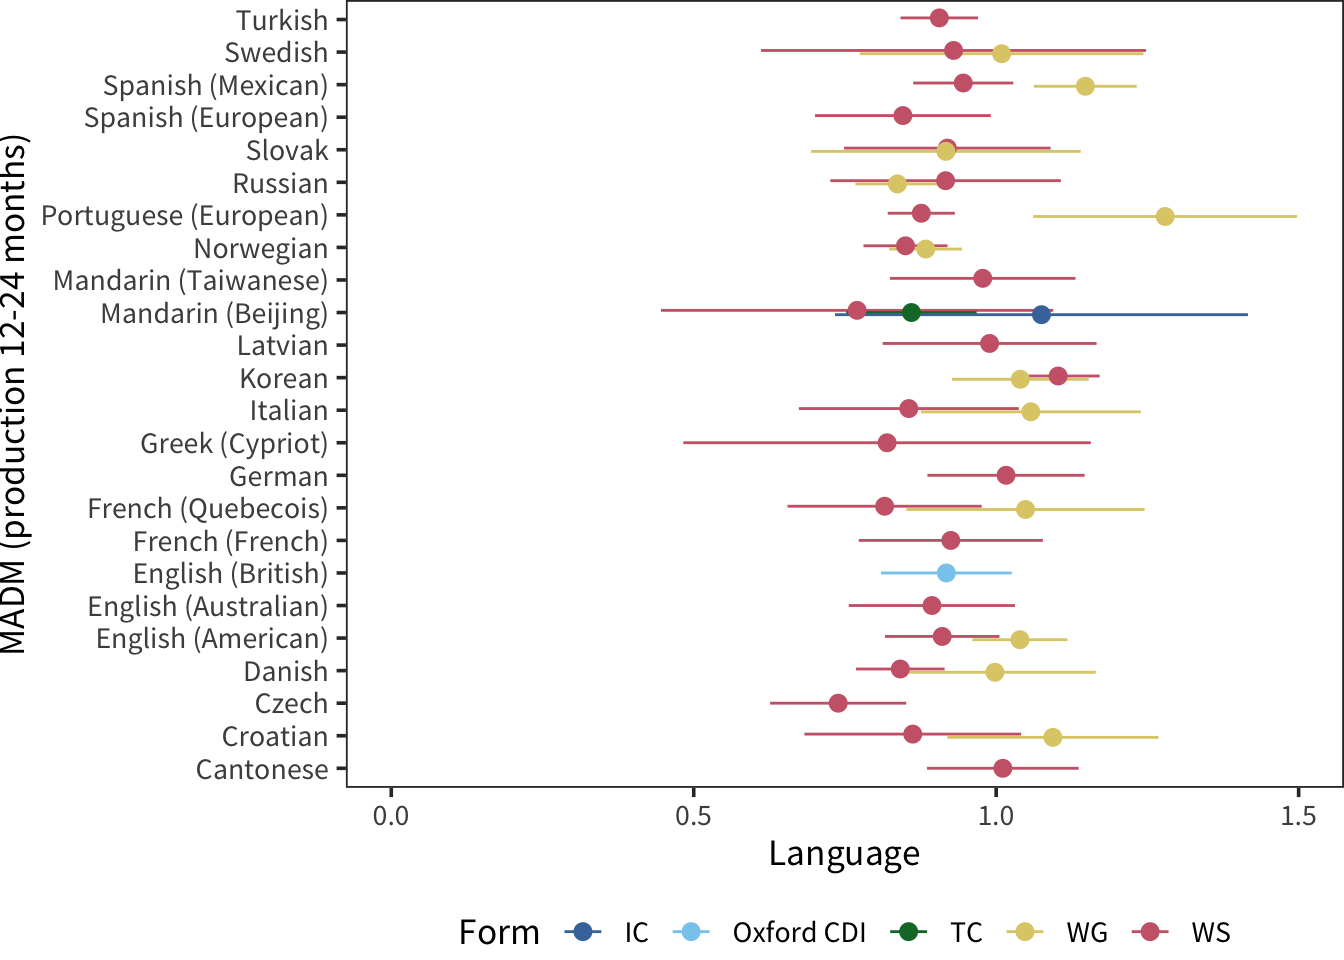
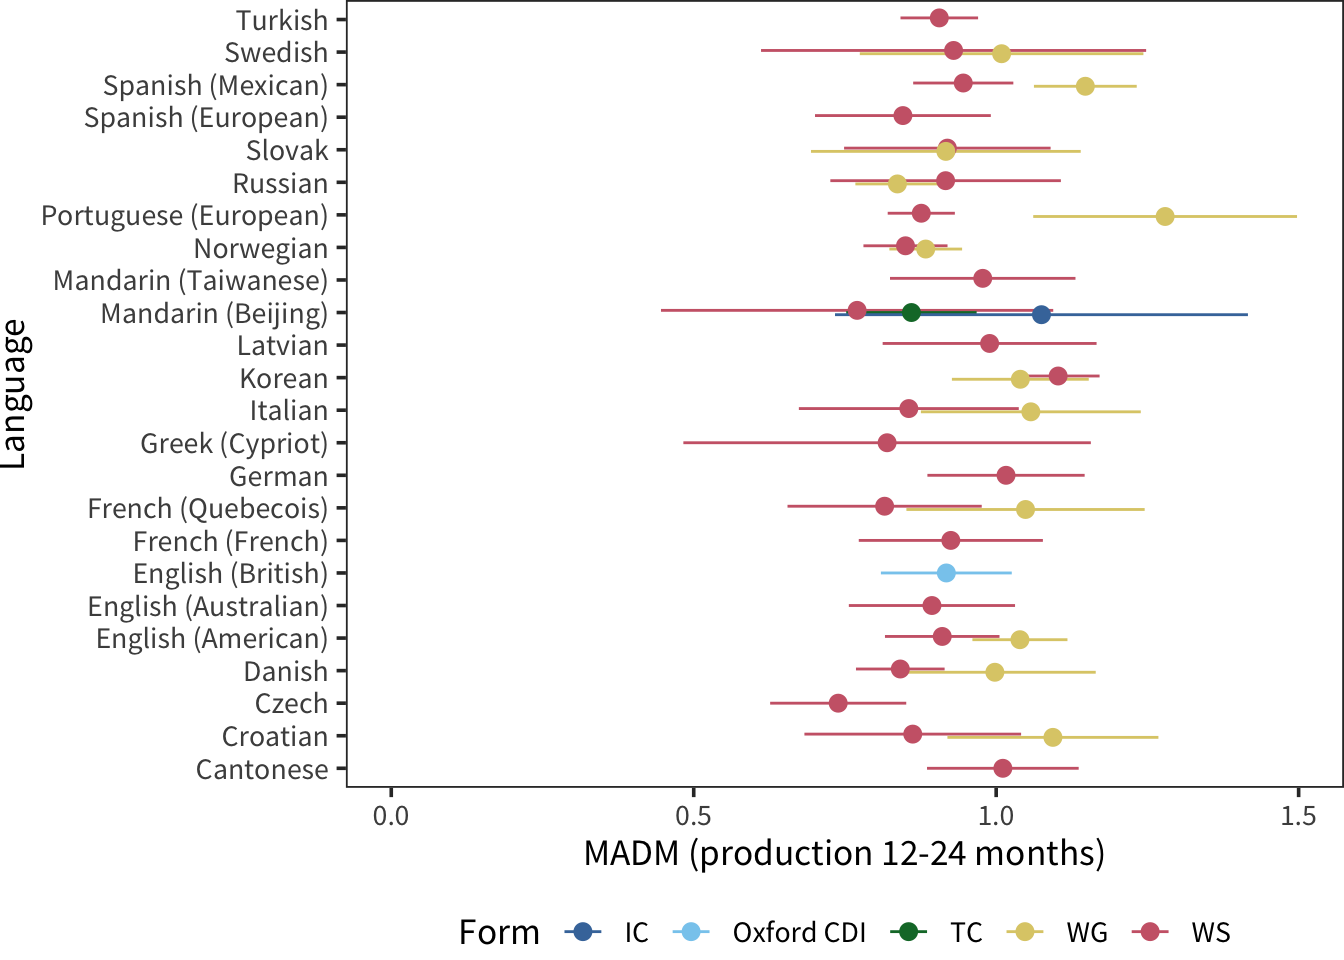
fix #58

Changed region(s): [[0.0, 0.125, 0.0312, 0.6875], [0.4375, 0.875, 0.8125, 0.9062]]

diff --git a/docs/vocabulary.html b/docs/vocabulary.html
@@ -168,12 +168,15 @@
 <li class="chapter" data-level="7.1.3" data-path="gesture.html"><a href="gesture.html#intercorrelation-among-gestures"><i class="fa fa-check"></i><b>7.1.3</b> Intercorrelation among gestures</a></li>
 </ul></li>
 <li class="chapter" data-level="7.2" data-path="gesture.html"><a href="gesture.html#the-relationship-between-language-and-gesture"><i class="fa fa-check"></i><b>7.2</b> The relationship between language and gesture</a></li>
+<li class="chapter" data-level="7.3" data-path="gesture.html"><a href="gesture.html#conclusions-2"><i class="fa fa-check"></i><b>7.3</b> Conclusions</a></li>
+<li class="chapter" data-level="7.4" data-path="gesture.html"><a href="gesture.html#gesture-and-demographic-variables"><i class="fa fa-check"></i><b>7.4</b> Gesture and demographic variables</a></li>
 </ul></li>
 <li class="chapter" data-level="8" data-path="items-consistency.html"><a href="items-consistency.html"><i class="fa fa-check"></i><b>8</b> Consistency in Early Vocabulary</a><ul>
 <li class="chapter" data-level="8.1" data-path="items-consistency.html"><a href="items-consistency.html#the-first-10-words"><i class="fa fa-check"></i><b>8.1</b> The first 10 words</a></li>
 <li class="chapter" data-level="8.2" data-path="items-consistency.html"><a href="items-consistency.html#global-cross-linguistic-similarity"><i class="fa fa-check"></i><b>8.2</b> Global cross-linguistic similarity</a></li>
 <li class="chapter" data-level="8.3" data-path="items-consistency.html"><a href="items-consistency.html#acquisition-similarity-and-linguistic-similarity"><i class="fa fa-check"></i><b>8.3</b> Acquisition similarity and linguistic similarity</a></li>
 <li class="chapter" data-level="8.4" data-path="items-consistency.html"><a href="items-consistency.html#consistency-across-development"><i class="fa fa-check"></i><b>8.4</b> Consistency across development</a></li>
+<li class="chapter" data-level="8.5" data-path="items-consistency.html"><a href="items-consistency.html#conclusions-3"><i class="fa fa-check"></i><b>8.5</b> Conclusions</a></li>
 </ul></li>
 <li class="chapter" data-level="9" data-path="items-demographics.html"><a href="items-demographics.html"><i class="fa fa-check"></i><b>9</b> Demographic Variation in Individual Words</a><ul>
 <li class="chapter" data-level="9.1" data-path="items-demographics.html"><a href="items-demographics.html#methods-1"><i class="fa fa-check"></i><b>9.1</b> Methods</a><ul>
@@ -181,11 +184,12 @@
 <li class="chapter" data-level="9.1.2" data-path="items-demographics.html"><a href="items-demographics.html#models"><i class="fa fa-check"></i><b>9.1.2</b> Models</a></li>
 </ul></li>
 <li class="chapter" data-level="9.2" data-path="items-demographics.html"><a href="items-demographics.html#results"><i class="fa fa-check"></i><b>9.2</b> Results</a><ul>
-<li class="chapter" data-level="9.2.1" data-path="items-demographics.html"><a href="items-demographics.html#sex-1"><i class="fa fa-check"></i><b>9.2.1</b> Sex</a></li>
-<li class="chapter" data-level="9.2.2" data-path="items-demographics.html"><a href="items-demographics.html#birth-order-1"><i class="fa fa-check"></i><b>9.2.2</b> Birth order</a></li>
-<li class="chapter" data-level="9.2.3" data-path="items-demographics.html"><a href="items-demographics.html#maternal-education"><i class="fa fa-check"></i><b>9.2.3</b> Maternal education</a></li>
+<li class="chapter" data-level="9.2.1" data-path="items-demographics.html"><a href="items-demographics.html#item-specific-effects"><i class="fa fa-check"></i><b>9.2.1</b> Item-specific effects –&gt;</a></li>
+<li class="chapter" data-level="9.2.2" data-path="items-demographics.html"><a href="items-demographics.html#sex-1"><i class="fa fa-check"></i><b>9.2.2</b> Sex</a></li>
+<li class="chapter" data-level="9.2.3" data-path="items-demographics.html"><a href="items-demographics.html#birth-order-1"><i class="fa fa-check"></i><b>9.2.3</b> Birth order</a></li>
+<li class="chapter" data-level="9.2.4" data-path="items-demographics.html"><a href="items-demographics.html#maternal-education"><i class="fa fa-check"></i><b>9.2.4</b> Maternal education</a></li>
 </ul></li>
-<li class="chapter" data-level="9.3" data-path="items-demographics.html"><a href="items-demographics.html#conclusions-2"><i class="fa fa-check"></i><b>9.3</b> Conclusions</a></li>
+<li class="chapter" data-level="9.3" data-path="items-demographics.html"><a href="items-demographics.html#conclusions-4"><i class="fa fa-check"></i><b>9.3</b> Conclusions</a></li>
 </ul></li>
 <li class="chapter" data-level="10" data-path="items-prediction.html"><a href="items-prediction.html"><i class="fa fa-check"></i><b>10</b> Predictive Models of Individual Words</a><ul>
 <li class="chapter" data-level="10.1" data-path="items-prediction.html"><a href="items-prediction.html#methods-2"><i class="fa fa-check"></i><b>10.1</b> Methods</a><ul>
@@ -254,7 +258,7 @@
 <li class="chapter" data-level="16.3.3" data-path="conclusion-scale.html"><a href="conclusion-scale.html#generalizations-appear-gradually"><i class="fa fa-check"></i><b>16.3.3</b> Generalizations appear gradually</a></li>
 </ul></li>
 <li class="chapter" data-level="16.4" data-path="conclusion-scale.html"><a href="conclusion-scale.html#methodological-morals"><i class="fa fa-check"></i><b>16.4</b> Methodological morals</a></li>
-<li class="chapter" data-level="16.5" data-path="conclusion-scale.html"><a href="conclusion-scale.html#conclusions-3"><i class="fa fa-check"></i><b>16.5</b> Conclusions</a></li>
+<li class="chapter" data-level="16.5" data-path="conclusion-scale.html"><a href="conclusion-scale.html#conclusions-5"><i class="fa fa-check"></i><b>16.5</b> Conclusions</a></li>
 </ul></li>
 <li class="appendix"><span><b>Appendices</b></span></li>
 <li class="chapter" data-level="A" data-path="appendix-data.html"><a href="appendix-data.html"><i class="fa fa-check"></i><b>A</b> Individual Datasets</a></li>
@@ -297,33 +301,33 @@
 Figure 5.1: Schematic true vocabulary growth and vocbaulary growth as measured by the CDI.
 </p>
 </div>
-<p>This schematic reveals a number of patterns that are explored in this and subsequent chapters. The CDI necessarily captures a small fraction of any individual’s true vocabulary, but even within the measured range there are a number of specific questions that can be addressed by different analyses. The question of the exact slope of children’s growth, especially in the period immediately after the emergence of language, is treated in Chapter <a href="style.html#style">14</a> — this question is sometimes posed as whether children undergo a vocabulary “spurt” <span class="citation">(Ganger and Brent <a href="references.html#ref-ganger2004">2004</a>)</span>. On the other side of the CDI curve, the question of the divergence between CDI-measured vocabulary and true vocabulary (and whether true vocabulary can be recovered via a statistical correction) is treated in work by <span class="citation">Mayor and Plunkett (<a href="references.html#ref-mayor2011">2011</a>)</span>.<a href="#fn12" class="footnote-ref" id="fnref12"><sup>12</sup></a> In the current chapter, we focus on the middle section of the CDI curve, in which children’s vocabulary is neither at the floor or the ceiling of the instrument.</p>
+<p>This schematic reveals a number of patterns that are explored in this and subsequent chapters. The CDI necessarily captures a small fraction of any individual’s true vocabulary, but even within the measured range there are a number of specific questions that can be addressed by different analyses. The question of the exact slope of children’s growth, especially in the period immediately after the emergence of language, is treated in Chapter <a href="style.html#style">14</a> — this question is sometimes posed as whether children undergo a vocabulary “spurt” <span class="citation">(Ganger and Brent <a href="references.html#ref-ganger2004">2004</a>)</span>. On the other side of the CDI curve, the question of the divergence between CDI-measured vocabulary and true vocabulary (and whether true vocabulary can be recovered via a statistical correction) is treated in work by <span class="citation">Mayor and Plunkett (<a href="references.html#ref-mayor2011">2011</a>)</span>.<a href="#fn3" class="footnote-ref" id="fnref3"><sup>3</sup></a> In the current chapter, we focus on the middle section of the CDI curve, in which children’s vocabulary is neither at the floor or the ceiling of the instrument.</p>
 <div id="commonalities-across-languages" class="section level3">
 <h3><span class="header-section-number">5.1.1</span> Commonalities across languages</h3>
 <div class="figure" style="text-align: center"><span id="fig:vocab-medians"></span>
-<img src="wordbank-book_files/figure-html/vocab-medians-1.png" alt="Median production using Words &amp; Gestures-type forms. Included are only languages where there are more than 200 administrations total." width="672" />
+<img src="wordbank-book_files/figure-html/vocab-medians-1.png" alt="Median production using Words and Gestures-type forms. Included are only languages where there are more than 200 administrations total." width="672" />
 <p class="caption">
-Figure 5.2: Median production using Words &amp; Gestures-type forms. Included are only languages where there are more than 200 administrations total.
+Figure 5.2: Median production using Words and Gestures-type forms. Included are only languages where there are more than 200 administrations total.
 </p>
 </div>
-<p>Figure <a href="vocabulary.html#fig:vocab-medians">5.2</a> shows the median patterns of growth for early production. Rather than showing proportions, as we will do more standardly throughout the book, here individual item totals are plotted.<a href="#fn13" class="footnote-ref" id="fnref13"><sup>13</sup></a> In general, the median child before the first birthday is reported to produce a small number of words. (These data raise a number of questions about the specific reliability of very early parent reports, which we take up below.) Overall, however, these curves accord relatively well with our intuitive sense of early vocabulary development: they reveal that most children tend to speak at most only a few words before their first birthday, but that production accelerates across the second year.</p>
+<p>Figure <a href="vocabulary.html#fig:vocab-medians">5.2</a> shows the median patterns of growth for early production. Rather than showing proportions, as we will do more standardly throughout the book, here individual item totals are plotted.<a href="#fn4" class="footnote-ref" id="fnref4"><sup>4</sup></a> In general, the median child before the first birthday is reported to produce a small number of words. (These data raise a number of questions about the specific reliability of very early parent reports, which we take up below.) Overall, however, these curves accord relatively well with our intuitive sense of early vocabulary development: they reveal that most children tend to speak at most only a few words before their first birthday, but that production accelerates across the second year.</p>
 <p>This analysis also motivates the decision made in most our large-scale analyses to omit early production from Words &amp; Gestures forms. Many WG forms end at 16–18 months, meaning that the median production is only around 50 words. For analyses of vocabulary composition or predictive modeling, these numbers are often too small to yield reliable and meaningful estimates, although they can be combined with Words &amp; Sentences data (see Appendix <a href="appendix-stitching.html#appendix-stitching">C</a>).</p>
 <div class="figure" style="text-align: center"><span id="fig:vocab-medians-production-ws"></span>
-<img src="wordbank-book_files/figure-html/vocab-medians-production-ws-1.png" alt="Median production using Words &amp; Sentences-type forms. Included are only languages where there are more than 200 administrations total." width="672" />
+<img src="wordbank-book_files/figure-html/vocab-medians-production-ws-1.png" alt="Median production using Words and Sentences-type forms. Included are only languages where there are more than 200 administrations total." width="672" />
 <p class="caption">
-Figure 5.3: Median production using Words &amp; Sentences-type forms. Included are only languages where there are more than 200 administrations total.
+Figure 5.3: Median production using Words and Sentences-type forms. Included are only languages where there are more than 200 administrations total.
 </p>
 </div>
 <p>The acceleration in early vocabulary is even clearer when looking at production reports from older children using Words &amp; Sentences. Figure <a href="vocabulary.html#fig:vocab-medians-production-ws">5.3</a> shows this pattern. In every language, the median child is reported to produce 50 words between 16–20 months (dotted line). As we will see below, this analysis masks the tremendous variability apparent during this period. In addition, as we discuss below, languages vary considerably in the absolute number of words reported. (As it is a major outlier, we discuss the Beijing Mandarin WS data in Chapter <a href="methods.html#methods">3</a>). Nevertheless, there are still substantial consistencies in the shape and general numerical range across languages.</p>
 <p>During the period of 24–30 months, we see children beginning to produce a large enough sample of words that curves are leveling out. Presumably this leveling does not reflect a slowing in the rate of acquisition, which most researchers assume continues unabated for many years <span class="citation">(Bloom, Tinker, and Scholnick <a href="references.html#ref-bloom2001">2001</a>)</span>. Instead, it reflects the limitations of the CDI instrument, in that there are many possible “more advanced” words that they could be learning, of which only a small subset are represented on any form.</p>
 <div class="figure" style="text-align: center"><span id="fig:vocab-medians-comprehension-wg"></span>
-<img src="wordbank-book_files/figure-html/vocab-medians-comprehension-wg-1.png" alt="Median comprehension using Words &amp; Gestures-type forms. Included are only languages where there are more than 200 administrations total." width="672" />
+<img src="wordbank-book_files/figure-html/vocab-medians-comprehension-wg-1.png" alt="Median comprehension using Words and Gestures-type forms. Included are only languages where there are more than 200 administrations total." width="672" />
 <p class="caption">
-Figure 5.4: Median comprehension using Words &amp; Gestures-type forms. Included are only languages where there are more than 200 administrations total.
+Figure 5.4: Median comprehension using Words and Gestures-type forms. Included are only languages where there are more than 200 administrations total.
 </p>
 </div>
 <p>We next turn to comprehension medians, shown in Figure <a href="vocabulary.html#fig:vocab-medians-comprehension-wg">5.4</a>. Comprehension is only queried on the Words &amp; Gestures form. Reported comprehension increases much faster than production; so much so that most parents are reporting that their children understand most words on the form by 18 months (Chapter <a href="style.html#style">14</a> discusses differences in the balance between comprehension and production between children). As with the production data, we see substantial differences across languages in reported vocabulary, discussed below (see Chapter <a href="methods.html#methods">3</a> for more discussion of Taiwanese Mandarin comprehension data).</p>
-<p>Outside of that particular dataset, one striking aspect of the comprehension data is how early comprehension is reported. For example, from 8 months, we see parents reporting medians of 4.5 (Swedish) and 123.5 (Mandarin (Taiwanese)) words. To many researchers (and some parents) these high numbers feel unlikely. We are largely agnostic on this issue, but the literature does provide some support for early comprehension reports. A spate of recent infancy experiments suggest that in fact, children in the second half of the first year do have some fragmentary representations of many common words available <span class="citation">(e.g., Tincoff and Jusczyk <a href="references.html#ref-tincoff1999">1999</a>, <a href="references.html#ref-tincoff2012">2012</a>; Bergelson and Swingley <a href="references.html#ref-bergelson2012">2012</a>; Bergelson and Aslin <a href="references.html#ref-bergelson2017">2017</a>)</span>. The representations revealed in these tasks are quite weak — often amounting to a 2-5% difference in looking to a target on hearing a word uttered — but, depending on the criterion used by parents, may be what is detected in these early reports. Thus, these estimates may not be as far off as we initially suppose.<a href="#fn14" class="footnote-ref" id="fnref14"><sup>14</sup></a></p>
+<p>Outside of that particular dataset, one striking aspect of the comprehension data is how early comprehension is reported. For example, from 8 months, we see parents reporting medians of 4.5 (Swedish) and 123.5 (Mandarin (Taiwanese)) words. To many researchers (and some parents) these high numbers feel unlikely. We are largely agnostic on this issue, but the literature does provide some support for early comprehension reports. A spate of recent infancy experiments suggest that in fact, children in the second half of the first year do have some fragmentary representations of many common words available <span class="citation">(e.g., Tincoff and Jusczyk <a href="references.html#ref-tincoff1999">1999</a>, <a href="references.html#ref-tincoff2012">2012</a>; Bergelson and Swingley <a href="references.html#ref-bergelson2012">2012</a>; Bergelson and Aslin <a href="references.html#ref-bergelson2017">2017</a>)</span>. The representations revealed in these tasks are quite weak — often amounting to a 2-5% difference in looking to a target on hearing a word uttered — but, depending on the criterion used by parents, may be what is detected in these early reports. Thus, these estimates may not be as far off as we initially suppose.<a href="#fn5" class="footnote-ref" id="fnref5"><sup>5</sup></a></p>
 </div>
 <div id="cross-language-differences" class="section level3">
 <h3><span class="header-section-number">5.1.2</span> Cross-language differences</h3>
@@ -418,9 +422,9 @@ Figure 5.13: MADM values from 12-18 months for all languages and forms.
 <p>The analysis above suggests that variability between individuals decreases. But this conclusion is compromised by ceiling effects: once children begin to reach the ceiling of the CDI form, variability is necessarily truncated. No analysis can completely eliminate these effects, but the use of item response theory-based analyses can partially address the issue by estimating variation in latent ability rather than variation in raw scores themselves.</p>
 <p>Chapter <a href="psychometrics.html#psychometrics">4</a> provides a summary of our approach to using item response theory (IRT) with CDI data. In brief, IRT provides a framework in which the full test (the CDI) is broken down into a series of items, with each having its own logistic model predicting the response for a particular child on the basis of their latent ability. In Chapter <a href="psychometrics.html#psychometrics">4</a>, we examine the parameters of individual items with respect to their properties; but fitting an IRT model also implies estimating a set of latent ability parameters for individual participants. These latent ability parameters are logistic regression coefficients and hence are not bounded in the same way that individual responses (and hence raw scores) are. Thus, we can examine their variability as a way of dealing with ceiling effects.</p>
 <div class="figure" style="text-align: center"><span id="fig:vocab-variability-IRT-slopes"></span>
-<img src="wordbank-book_files/figure-html/vocab-variability-IRT-slopes-1.png" alt="Standard deviation of latent ability scores from IRT models fit to each Words &amp; Sentences-type dataset. Panels show individual languages. Smoothing lines are linear model fits." width="672" />
+<img src="wordbank-book_files/figure-html/vocab-variability-IRT-slopes-1.png" alt="Standard deviation of latent ability scores from IRT models fit to each Words and Sentences-type dataset. Panels show individual languages. Smoothing lines are linear model fits." width="672" />
 <p class="caption">
-Figure 5.14: Standard deviation of latent ability scores from IRT models fit to each Words &amp; Sentences-type dataset. Panels show individual languages. Smoothing lines are linear model fits.
+Figure 5.14: Standard deviation of latent ability scores from IRT models fit to each Words and Sentences-type dataset. Panels show individual languages. Smoothing lines are linear model fits.
 </p>
 </div>
 <p>Figure <a href="vocabulary.html#fig:vocab-variability-IRT-slopes">5.14</a> shows the normalized standard deviation of latent ability scores, plotted by age. The absolute size of the standard deviations is not easy to interpret — the range of latent ability scores on a form is a function of how consistently difficult or easy the items are (and as we noted above, we do not think it is trivial to equate these scores across tests) Thus, the standard deviation of these scores will be larger or smaller based on this feature as well as the consistency of children’s abilities within an age group and is not interpretable. On the other hand, age-related trends in the standard deviation are interpretable and can be used as an index of whether variability in ability stays constant, increases, or decreases.</p>
@@ -446,10 +450,10 @@ Figure 5.14: Standard deviation of latent ability scores from IRT models fit to 
 </div>
 <div class="footnotes">
 <hr />
-<ol start="12">
-<li id="fn12"><p>Because of the English-specific nature of this work, we do not take up this issue here.<a href="vocabulary.html#fnref12" class="footnote-back">↩</a></p></li>
-<li id="fn13"><p>As <span class="citation">Eriksson et al. (<a href="references.html#ref-eriksson2012">2012</a>)</span> write, “Using raw data assumes that each form is exhaustive, while using percentages assumes that each form is equally exhaustive. Neither is correct and the truth lies somewhere in between.”<a href="vocabulary.html#fnref13" class="footnote-back">↩</a></p></li>
-<li id="fn14"><p>An alternative possibility is that <em>both</em> accounts are true, but unconnected: 8-month-olds could in fact know some common words, but parents could be overestimating their vocabulary based on observed behaviors — in essence, parents could be right, but for the wrong reasons.<a href="vocabulary.html#fnref14" class="footnote-back">↩</a></p></li>
+<ol start="3">
+<li id="fn3"><p>Because of the English-specific nature of this work, we do not take up this issue here.<a href="vocabulary.html#fnref3" class="footnote-back">↩</a></p></li>
+<li id="fn4"><p>As <span class="citation">Eriksson et al. (<a href="references.html#ref-eriksson2012">2012</a>)</span> write, “Using raw data assumes that each form is exhaustive, while using percentages assumes that each form is equally exhaustive. Neither is correct and the truth lies somewhere in between.”<a href="vocabulary.html#fnref4" class="footnote-back">↩</a></p></li>
+<li id="fn5"><p>An alternative possibility is that <em>both</em> accounts are true, but unconnected: 8-month-olds could in fact know some common words, but parents could be overestimating their vocabulary based on observed behaviors — in essence, parents could be right, but for the wrong reasons.<a href="vocabulary.html#fnref5" class="footnote-back">↩</a></p></li>
 </ol>
 </div>
             </section>
